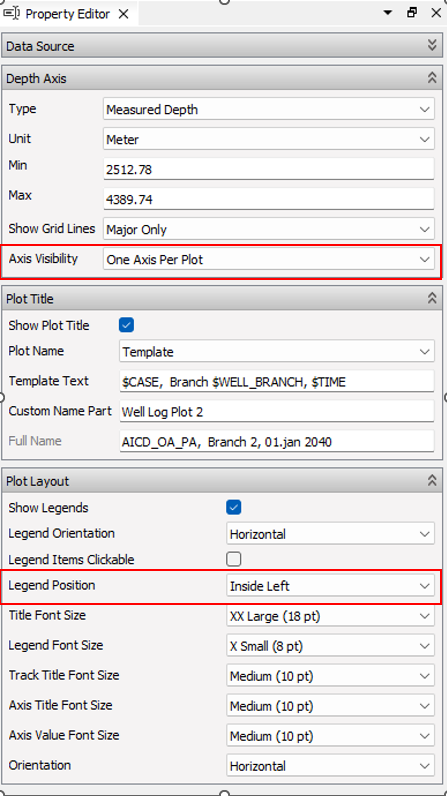
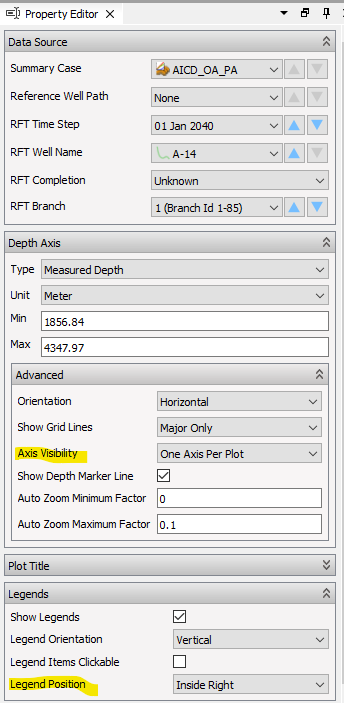
Depth marker and RFT segment updates

diff --git a/content/plot-window/WellLogsAndPlots.md b/content/plot-window/WellLogsAndPlots.md
@@ -40,6 +40,11 @@ The depth unit can be set using the **Depth unit** option. Currently ResInsight 
 The visible depth range can be panned using the mouse wheel while the mouse pointer hovers over the plot.
 Pressing and holding **CTRL** while using the mouse wheel will allow you to zoom in or out depth-wise, towards the mouse position.
 
+### Depth Marker Line
+If there are multiple tracks in the same plot, it can be useful to show a horizontal line across the plot based on the location of the mouse cursor. This can be activated from the **Property Editor** of a **Well Log Plot**.
+
+![]({{< relref "" >}}images/plot-window/well-log-track-depth-axis.png)
+
 ### Accessing Plot Data
 
 Right-click a Well Log Plot and select **Show Plot Data** to show a window containing the plot data in ascii format. The content of this window is easy to copy and paste into Excel or other tools for further processing.

diff --git a/content/plot-window/RftSegmentPlot.md b/content/plot-window/RftSegmentPlot.md
@@ -21,7 +21,7 @@ Some cases require data from **WSEGLINK** keyword. When importing summary data, 
 
 
 ### Create Default Plot
-From the right-click menu of the summary case, select **Create RFT Segment Plot** or **Create RFT Multi Phase Segment Plot**
+From the right-click menu of the **RFT Case** object , select **Create RFT Segment Plot** or **Create RFT Multi Phase Segment Plot**
 
 Select the generated **Well Log Plot**. Adjust the data source to desired well or branch. These settings are also available from the toolbar above the plot. Useful options to adjust for a curve is color, line style and area fill.
 
